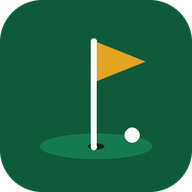
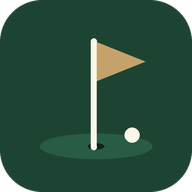
Classic light theme: ivory, racing green and brass with serif headings; fix map teardown error
Claude-Session: https://claude.ai/code/session_01XL54eaHXk2FcsiGUyhffHD

Changed region(s): [[0.1875, 0.6875, 0.8125, 0.8438], [0.5, 0.2188, 0.75, 0.4375]]

diff --git a/styles.css b/styles.css
@@ -1,24 +1,25 @@
 :root {
-  --bg: #f3f5f2;
-  --surface: #ffffff;
-  --surface-2: #eef2ee;
-  --text: #15201a;
-  --muted: #5d6b63;
-  --line: #d9e0db;
-  --brand: #0e5a3a;
-  --brand-2: #157a4f;
-  --brand-ink: #ffffff;
-  --accent: #e2a521;
-  --good: #1a8a52;
-  --bad: #c2412d;
-  --warn: #b7791f;
+  --bg: #f7f3ea;
+  --surface: #fffdf8;
+  --surface-2: #f2ede1;
+  --text: #1c2a22;
+  --muted: #6e7268;
+  --line: #e4dccb;
+  --brand: #1d4433;
+  --brand-2: #285c45;
+  --brand-ink: #fbf6e9;
+  --accent: #b38e55;
+  --good: #2c6b4b;
+  --bad: #a3442f;
+  --warn: #a8782f;
+  --serif: "Iowan Old Style", "Palatino Linotype", Palatino, "Book Antiqua", Georgia, serif;
   --eagle: #7b4fd6;
   --birdie: #d6453d;
   --par: #8a958f;
   --bogey: #2f6fc0;
   --double: #1d3f74;
   --radius: 14px;
-  --shadow: 0 1px 2px rgba(0,0,0,.06), 0 2px 10px rgba(0,0,0,.04);
+  --shadow: 0 1px 2px rgba(60,45,20,.06), 0 3px 12px rgba(60,45,20,.05);
   color-scheme: light;
 }
 @media (prefers-color-scheme: dark) {
@@ -205,7 +206,7 @@ textarea { min-height: 70px; resize: vertical; }
 .list-item { display: flex; align-items: center; justify-content: space-between; gap: 10px; padding: 12px 0; border-bottom: 1px solid var(--line); background: none; border-left: 0; border-right: 0; border-top: 0; width: 100%; text-align: left; }
 .list-item:last-child { border-bottom: 0; }
 .list-item .big { font-size: 22px; font-weight: 800; font-variant-numeric: tabular-nums; }
-.pill { font-size: 11px; font-weight: 700; padding: 2px 8px; border-radius: 999px; background: var(--accent); color: #241a00; }
+.pill { font-size: 11px; font-weight: 700; padding: 2px 8px; border-radius: 999px; background: var(--accent); color: #1d2a22; }
 
 .chips { display: flex; gap: 6px; flex-wrap: wrap; }
 .chips button { border: 1px solid var(--line); background: var(--surface); border-radius: 999px; padding: 6px 12px; font-size: 13px; font-weight: 650; }
@@ -217,30 +218,30 @@ textarea { min-height: 70px; resize: vertical; }
 details.help summary { font-weight: 700; cursor: pointer; padding: 4px 0; }
 details.help p, details.help li { font-size: 14px; color: var(--muted); }
 
-#toast { position: fixed; left: 50%; bottom: calc(86px + env(safe-area-inset-bottom)); transform: translateX(-50%) translateY(20px); opacity: 0; transition: .2s; background: #15201a; color: #fff; padding: 10px 16px; border-radius: 999px; font-size: 14px; font-weight: 600; z-index: 50; pointer-events: none; max-width: calc(100% - 32px); }
+#toast { position: fixed; left: 50%; bottom: calc(86px + env(safe-area-inset-bottom)); transform: translateX(-50%) translateY(20px); opacity: 0; transition: .2s; background: #1d4433; color: #fff; padding: 10px 16px; border-radius: 999px; font-size: 14px; font-weight: 600; z-index: 50; pointer-events: none; max-width: calc(100% - 32px); }
 #toast.show { opacity: 1; transform: translateX(-50%) translateY(0); }
 
 svg.chart { width: 100%; height: auto; display: block; }
 svg.chart text { fill: var(--muted); font-size: 10px; }
 
 /* GPS map */
-.gpsbtn { margin-bottom: 12px; background: #13355a; color: #fff; border-color: transparent; }
+.gpsbtn { margin-bottom: 12px; background: var(--surface); color: var(--brand); border: 1px solid var(--accent); font-family: var(--serif); font-weight: 600; }
 body.mapmode main { padding-top: 0; }
 #mapWrap { position: relative; isolation: isolate; z-index: 0; height: 58dvh; margin: 0 -16px 12px; background: #1b2a22; }
 #map { position: absolute; inset: 0; }
 #mapTop { position: absolute; top: 6px; left: 8px; right: 8px; z-index: 500; display: flex; flex-direction: column; gap: 6px; pointer-events: none; }
 #mapTop > * { pointer-events: auto; }
-.mt-d { align-self: center; display: flex; justify-content: center; gap: 4px; background: rgba(8,20,14,.82); color: #fff; border-radius: 14px; padding: 6px 10px; backdrop-filter: blur(4px); }
+.mt-d { align-self: center; display: flex; justify-content: center; gap: 4px; background: rgba(22,52,39,.88); color: #fff; border-radius: 14px; padding: 6px 10px; backdrop-filter: blur(4px); }
 .mt-d div { text-align: center; min-width: 64px; }
 .mt-d small { display: block; font-size: 11px; opacity: .75; font-weight: 600; }
 .mt-d b { font-size: 24px; font-variant-numeric: tabular-nums; }
-.mt-d .mid b { font-size: 32px; color: #ffd54a; line-height: 1.05; }
-.mt-msg { background: rgba(8,20,14,.82); color: #fff; border-radius: 12px; padding: 8px 12px; font-size: 14px; display: flex; align-items: center; gap: 8px; }
+.mt-d .mid b { font-size: 32px; color: #ecd29b; line-height: 1.05; }
+.mt-msg { background: rgba(22,52,39,.88); color: #fff; border-radius: 12px; padding: 8px 12px; font-size: 14px; display: flex; align-items: center; gap: 8px; }
 .mt-x { margin-left: auto; background: rgba(255,255,255,.2); border: 0; color: #fff; border-radius: 999px; width: 28px; height: 28px; }
-.mt-acc { align-self: flex-start; background: rgba(8,20,14,.7); color: #cfe; font-size: 11px; padding: 2px 8px; border-radius: 999px; }
+.mt-acc { align-self: flex-start; background: rgba(22,52,39,.75); color: #cfe; font-size: 11px; padding: 2px 8px; border-radius: 999px; }
 #mapCtl { position: absolute; right: 8px; bottom: 24px; z-index: 500; display: flex; flex-direction: column; gap: 8px; align-items: flex-end; }
-#mapCtl button { background: rgba(8,20,14,.85); color: #fff; border: 0; border-radius: 12px; padding: 10px 12px; font-weight: 700; font-size: 15px; min-width: 44px; }
-#mapCtl button.on { background: #e2a521; color: #241a00; }
+#mapCtl button { background: rgba(22,52,39,.9); color: #fff; border: 0; border-radius: 12px; padding: 10px 12px; font-weight: 700; font-size: 15px; min-width: 44px; }
+#mapCtl button.on { background: #c4a26a; color: #1d2a22; }
 .clubs { display: flex; gap: 6px; overflow-x: auto; padding-bottom: 4px; scrollbar-width: none; }
 .clubs::-webkit-scrollbar { display: none; }
 .clubs button { flex: 0 0 auto; min-width: 48px; height: 44px; border-radius: 10px; border: 1px solid var(--line); background: var(--surface-2); font-weight: 700; }
@@ -249,7 +250,7 @@ body.mapmode main { padding-top: 0; }
 .shot:last-child { border-bottom: 0; }
 .shot .n { width: 24px; height: 24px; border-radius: 50%; background: var(--surface-2); display: inline-flex; align-items: center; justify-content: center; font-size: 12px; font-weight: 800; }
 .shot .x { margin-left: auto; border: 0; background: none; color: var(--muted); font-size: 16px; padding: 4px 8px; }
-.leaflet-tooltip.shotnum { background: none; border: 0; box-shadow: none; color: #0e5a3a; font-weight: 800; font-size: 10px; padding: 0; }
+.leaflet-tooltip.shotnum { background: none; border: 0; box-shadow: none; color: #1d4433; font-weight: 800; font-size: 10px; padding: 0; }
 .leaflet-tooltip.shotnum::before { display: none; }
 .mt-sm { font-size: 12.5px; display: block; line-height: 1.4; padding: 6px 10px; align-self: flex-start; max-width: 100%; }
 .leaflet-tooltip.arclbl { background: none; border: 0; box-shadow: none; color: #fff; font-weight: 700; font-size: 10px; padding: 0; text-shadow: 0 0 3px #000; }
@@ -259,12 +260,12 @@ body.mapmode main { padding-top: 0; }
 .baggrid input { padding: 8px 10px; }
 
 /* home */
-.hero { background: linear-gradient(150deg, #0e5a3a, #13704a 60%, #0b4a30); color: #fff; border-radius: 18px; padding: 18px; margin-bottom: 12px; position: relative; overflow: hidden; }
+.hero { background: linear-gradient(150deg, #1d4433, #285c45 60%, #16372a); color: #fff; border-radius: 18px; padding: 18px; margin-bottom: 12px; position: relative; overflow: hidden; }
 .hero::after { content: ''; position: absolute; right: -40px; top: -40px; width: 160px; height: 160px; border-radius: 50%; background: rgba(255,255,255,.06); }
 .hero-k { font-size: 13px; opacity: .8; font-weight: 600; }
 .hero-t { font-size: 24px; font-weight: 800; margin: 2px 0 4px; }
 .hero-s { font-size: 15px; opacity: .9; margin-bottom: 4px; }
-.hero-btn { margin-top: 12px; width: 100%; background: #e2a521; color: #241a00; border: 0; font-size: 17px; position: relative; z-index: 1; }
+.hero-btn { margin-top: 12px; width: 100%; background: #c4a26a; color: #1d2a22; border: 0; font-size: 17px; position: relative; z-index: 1; }
 .hero-quick { display: flex; flex-wrap: wrap; gap: 6px; margin-top: 10px; position: relative; z-index: 1; }
 .hero-quick button { background: rgba(255,255,255,.14); color: #fff; border: 0; border-radius: 999px; padding: 6px 12px; font-size: 13px; font-weight: 650; }
 .home-tiles { margin-bottom: 12px; }
@@ -275,37 +276,37 @@ body.mapmode .top, body.mapmode .tabs { display: none; }
 body.mapmode { padding-bottom: 0; overflow: hidden; }
 body.mapmode main { padding: 0; max-width: none; }
 body.mapmode #mapWrap { position: fixed; inset: 0; height: auto; margin: 0; }
-.mp { position: absolute; z-index: 600; background: rgba(9,22,15,.86); color: #fff; backdrop-filter: blur(6px); -webkit-backdrop-filter: blur(6px); text-align: center; }
+.mp { position: absolute; z-index: 600; background: rgba(22,52,39,.9); color: #fff; backdrop-filter: blur(6px); -webkit-backdrop-filter: blur(6px); text-align: center; }
 #mapLeft { left: 0; top: calc(64px + env(safe-area-inset-top)); width: 70px; border-radius: 0 16px 16px 0; padding: 8px 0 0; overflow: hidden; }
 #mapRight { right: 0; top: calc(12px + env(safe-area-inset-top)); width: 92px; border-radius: 16px 0 0 16px; padding: 8px 4px 10px; }
 .mp-k { font-size: 11px; font-weight: 650; opacity: .7; letter-spacing: .02em; }
 .mp-v { font-size: 24px; font-weight: 800; line-height: 1.1; margin-bottom: 4px; }
-.mp-v .dots { display: block; font-size: 12px; color: #e2a521; line-height: .6; }
+.mp-v .dots { display: block; font-size: 12px; color: #c4a26a; line-height: .6; }
 .mp-s { font-size: 19px; font-weight: 750; line-height: 1.15; margin-bottom: 4px; font-variant-numeric: tabular-nums; }
 .mp-s small { font-size: 10px; opacity: .7; margin-left: 2px; }
-.mp-big { font-size: 40px; font-weight: 850; color: #ffd54a; line-height: 1.05; margin: 2px 0 4px; font-variant-numeric: tabular-nums; letter-spacing: -1px; }
+.mp-big { font-size: 40px; font-weight: 850; color: #ecd29b; line-height: 1.05; margin: 2px 0 4px; font-variant-numeric: tabular-nums; letter-spacing: -1px; }
 .mp hr { border: 0; border-top: 1px solid rgba(255,255,255,.15); margin: 6px 6px 8px; }
-.mp-club { margin: 4px auto 0; display: inline-block; background: #e2a521; color: #241a00; font-weight: 800; border-radius: 8px; padding: 3px 10px; font-size: 15px; }
+.mp-club { margin: 4px auto 0; display: inline-block; background: #c4a26a; color: #1d2a22; font-weight: 800; border-radius: 8px; padding: 3px 10px; font-size: 15px; }
 .warrow { display: inline-block; color: #8fd3ff; margin-right: 2px; transition: transform .3s; }
-.mp-btn { display: flex; flex-direction: column; align-items: center; width: 100%; border: 0; background: #13704a; color: #fff; padding: 10px 0 8px; font-size: 18px; border-top: 1px solid rgba(255,255,255,.12); }
+.mp-btn { display: flex; flex-direction: column; align-items: center; width: 100%; border: 0; background: #285c45; color: #fff; padding: 10px 0 8px; font-size: 18px; border-top: 1px solid rgba(255,255,255,.12); }
 .mp-btn span { font-size: 11px; font-weight: 700; margin-top: 2px; }
 #mapChips { position: absolute; z-index: 600; left: 12px; right: 12px; bottom: calc(84px + env(safe-area-inset-bottom)); display: flex; flex-direction: column; align-items: center; gap: 6px; pointer-events: none; }
-.mchip { pointer-events: auto; background: rgba(9,22,15,.88); color: #fff; border-radius: 12px; padding: 8px 12px; font-size: 14px; display: flex; align-items: center; gap: 8px; max-width: 100%; }
-.chipbtn { background: #e2a521; color: #241a00; border: 0; border-radius: 8px; padding: 5px 10px; font-weight: 750; }
+.mchip { pointer-events: auto; background: rgba(22,52,39,.9); color: #fff; border-radius: 12px; padding: 8px 12px; font-size: 14px; display: flex; align-items: center; gap: 8px; max-width: 100%; }
+.chipbtn { background: #c4a26a; color: #1d2a22; border: 0; border-radius: 8px; padding: 5px 10px; font-weight: 750; }
 .mt-x.dark { background: var(--surface-2); color: var(--text); }
 #mapFab { position: absolute; z-index: 600; right: 10px; bottom: calc(140px + env(safe-area-inset-bottom)); display: flex; flex-direction: column; gap: 8px; align-items: flex-end; }
-.fab { border: 0; border-radius: 14px; background: rgba(9,22,15,.88); color: #fff; font-size: 20px; width: 46px; height: 46px; }
-.fab.on { background: #e2a521; color: #241a00; }
-.fab.mark { width: auto; height: auto; padding: 10px 14px; background: #fff; color: #0e5a3a; display: flex; flex-direction: column; align-items: center; box-shadow: 0 4px 14px rgba(0,0,0,.35); }
+.fab { border: 0; border-radius: 14px; background: rgba(22,52,39,.9); color: #fff; font-size: 20px; width: 46px; height: 46px; }
+.fab.on { background: #c4a26a; color: #1d2a22; }
+.fab.mark { width: auto; height: auto; padding: 10px 14px; background: #fff; color: #1d4433; display: flex; flex-direction: column; align-items: center; box-shadow: 0 4px 14px rgba(0,0,0,.35); }
 .fab.mark b { font-size: 15px; }
 .fab.mark small { font-size: 11px; font-weight: 700; color: #5d6b63; }
 .fab:disabled { opacity: .5; }
 #mapBar { position: absolute; z-index: 650; left: 0; right: 0; bottom: 0; display: grid; grid-template-columns: 52px 52px 1fr 52px 52px; gap: 8px; align-items: center; padding: 10px 10px calc(10px + env(safe-area-inset-bottom)); background: linear-gradient(transparent, rgba(0,0,0,.55) 35%); }
-.mb-menu, .mb-arrow { height: 52px; border: 0; border-radius: 14px; background: rgba(9,22,15,.9); color: #fff; font-size: 24px; font-weight: 700; }
+.mb-menu, .mb-arrow { height: 52px; border: 0; border-radius: 14px; background: rgba(22,52,39,.92); color: #fff; font-size: 24px; font-weight: 700; }
 .mb-arrow { font-size: 32px; line-height: 1; }
 .mb-arrow:disabled { opacity: .35; }
-.mb-score { white-space: nowrap; height: 60px; border: 0; border-radius: 16px; background: #e2a521; color: #241a00; font-weight: 800; font-size: 17px; display: flex; align-items: center; justify-content: center; gap: 10px; box-shadow: 0 4px 16px rgba(0,0,0,.35); }
-.mb-tp { background: #241a00; color: #ffd54a; border-radius: 8px; padding: 2px 8px; font-size: 15px; }
+.mb-score { white-space: nowrap; height: 60px; border: 0; border-radius: 16px; background: #c4a26a; color: #1d2a22; font-weight: 800; font-size: 17px; display: flex; align-items: center; justify-content: center; gap: 10px; box-shadow: 0 4px 16px rgba(0,0,0,.35); }
+.mb-tp { background: #1d2a22; color: #ecd29b; border-radius: 8px; padding: 2px 8px; font-size: 15px; }
 #mapSheet { position: absolute; inset: 0; z-index: 700; pointer-events: none; }
 #mapSheet.open { pointer-events: auto; }
 .sheet-bg { position: absolute; inset: 0; background: rgba(0,0,0,.35); }
@@ -377,3 +378,53 @@ body { padding-bottom: calc(100px + env(safe-area-inset-bottom)); }
 .ins-foot button:disabled { opacity: .3; }
 .ins-foot b { display: block; font-size: 17px; }
 .ins-foot span { font-size: 13px; color: var(--muted); }
+
+
+/* ---------- classic clubhouse theme ---------- */
+body { font-feature-settings: "lnum" 1; }
+.top { background: var(--brand); border-bottom: 2px solid var(--accent); }
+.top h1, .card h2, .hn, .hero-t, .ins-title, .h-hcp span, .h-last b, .h-duo button span, .h-start, .sheet-h b { font-family: var(--serif); letter-spacing: .2px; }
+.top h1 { font-size: 21px; font-weight: 600; color: #fbf6e9; }
+.top .tbtn { background: transparent; border: 1px solid rgba(196,162,106,.7); color: #ecd29b; }
+.card { border-color: var(--line); }
+.card h2 { font-size: 18px; font-weight: 600; color: var(--brand); }
+.card h3 { color: var(--accent); }
+.tile .v, .big, .h-hcp b, .h-trio b, .h-quad b, .mp-big, .mp-v, .stepper .val b, .strip b, .ins-row b, .h-last .h-score, .list-item .big { font-family: var(--serif); font-weight: 600; }
+.tile { background: var(--surface-2); border: 1px solid var(--line); }
+.btn.primary { background: var(--brand); color: #fbf6e9; }
+.seg button.on, .chips button.on, .clubs button.on { background: var(--brand); border-color: var(--brand); color: #fbf6e9; }
+.hchip.cur { outline-color: var(--accent); }
+.tab.on { color: var(--brand); background: var(--surface-2); box-shadow: inset 0 0 0 1px var(--line); }
+.tabs { border-color: var(--line); }
+
+/* home */
+.h-search { background: var(--surface); }
+.h-hcp { background: var(--brand); color: #fbf6e9; border: 1px solid var(--brand); box-shadow: inset 0 0 0 4px var(--brand), inset 0 0 0 5px rgba(196,162,106,.55); }
+.h-hcp b { color: #ecd29b; font-size: 36px; }
+.h-golfer { fill: #ecd29b; opacity: .22; }
+.h-trio div { background: var(--surface); border: 1px solid var(--line); }
+.h-trio b { color: var(--brand); font-size: 26px; }
+.h-quad div { background: var(--surface); border: 1px solid var(--line); }
+.h-last { background: var(--surface); }
+.h-last.live { background: #f6ecd6; border-color: var(--accent); }
+.h-duo button { background: var(--surface); border-color: var(--line); color: var(--brand); }
+.h-duo button span { font-size: 19px; color: var(--text); }
+.h-section { color: var(--accent); text-transform: uppercase; letter-spacing: .08em; font-size: 12px; }
+.h-start { background: var(--brand); color: #fbf6e9; border: 1px solid var(--brand); box-shadow: inset 0 0 0 3px var(--brand), inset 0 0 0 4px rgba(196,162,106,.7); font-weight: 600; letter-spacing: .3px; }
+.h-start svg { color: #ecd29b; }
+.hero { background: linear-gradient(150deg, #1d4433, #285c45 60%, #16372a); }
+
+/* map overlays */
+.mp { border: 1px solid rgba(196,162,106,.35); }
+#mapLeft { border-left: 0; }
+#mapRight { border-right: 0; }
+.mp-btn { background: #285c45; }
+.mp-club { background: #c4a26a; color: #16372a; }
+.mb-score { background: #f7f0de; color: #1d4433; border: 1px solid #c4a26a; font-family: var(--serif); font-weight: 600; font-size: 18px; }
+.mb-tp { background: #1d4433; color: #ecd29b; font-family: var(--serif); }
+.fab.mark { background: #fffdf8; color: #1d4433; border: 1px solid #c4a26a; }
+.fab.on, .chipbtn { background: #c4a26a; color: #16372a; }
+.ins-title { color: var(--brand); }
+.ins-foot button { border-color: var(--brand); color: var(--brand); }
+.bb i { background: linear-gradient(90deg, var(--brand), var(--brand-2)); }
+.hero-btn { background: #c4a26a; color: #16372a; }

diff --git a/map.js b/map.js
@@ -206,7 +206,7 @@ function initMap() {
 function stopMap() {
   if (M.watch != null) { navigator.geolocation.clearWatch(M.watch); M.watch = null; }
   if (M.wake) { M.wake.release().catch(() => {}); M.wake = null; }
-  if (M.map) { M.map.remove(); M.map = null; M.layer = null; }
+  if (M.map) { try { M.map.stop(); M.map.off(); M.map.remove(); } catch (e) {} M.map = null; M.layer = null; }
   M.target = null; M.setFlag = false; M.sheet = null;
 }
 function startGps() {
@@ -233,9 +233,9 @@ function fitHole() {
   const pts = [];
   if (g) { pts.push(g.c); if (g.tee) pts.push(g.tee); }
   if (M.me && (!g || dist(M.me, g.c) < 700)) pts.push(M.me);
-  if (pts.length > 1) M.map.fitBounds(pts, { padding: [70, 40], maxZoom: 19 });
-  else if (pts.length === 1) M.map.setView(pts[0], g ? 18 : 17);
-  else if (courseGeo().center) M.map.setView(courseGeo().center, 16);
+  if (pts.length > 1) M.map.fitBounds(pts, { padding: [70, 40], maxZoom: 19, animate: false });
+  else if (pts.length === 1) M.map.setView(pts[0], g ? 18 : 17, { animate: false });
+  else if (courseGeo().center) M.map.setView(courseGeo().center, 16, { animate: false });
 }
 
 /* ---------- drawing ---------- */
@@ -371,7 +371,7 @@ async function autoFind(force) {
   const center = (M.me && (!geo.center || dist(M.me, geo.center) < 3000)) ? M.me : await geocodeCourse();
   if (!center) { if (force) toast('Could not find the course. Set greens by hand.'); return; }
   M.finding = true;
-  if (M.map && !Object.keys(geo.holes).length) M.map.setView(center, 16);
+  if (M.map && !Object.keys(geo.holes).length) M.map.setView(center, 16, { animate: false });
   try {
     const q = `[out:json][timeout:25];(way["golf"="green"](around:2500,${center[0]},${center[1]});way["golf"="hole"](around:2500,${center[0]},${center[1]});way["golf"="bunker"](around:2500,${center[0]},${center[1]});way["natural"="water"](around:2500,${center[0]},${center[1]});way["golf"~"water_hazard|lateral_water_hazard"](around:2500,${center[0]},${center[1]}););out geom;`;
     const res = await fetch('https://overpass-api.de/api/interpreter', { method: 'POST', body: 'data=' + encodeURIComponent(q), headers: { 'Content-Type': 'application/x-www-form-urlencoded' } });

diff --git a/app.js b/app.js
@@ -3,7 +3,7 @@
    All data lives in this browser's localStorage. Use More → Backup to export. */
 
 const KEYS = { rounds: 'gs.rounds', courses: 'gs.courses', settings: 'gs.settings', active: 'gs.active' };
-const DEFAULT_SETTINGS = { hcp: '', zone: 100, unit: 'm', target: 15, szGoal: 70, d3Goal: 70, theme: 'auto' };
+const DEFAULT_SETTINGS = { hcp: '', zone: 100, unit: 'm', target: 15, szGoal: 70, d3Goal: 70, theme: 'light' };
 const STD_PARS = [4, 4, 3, 4, 5, 4, 3, 4, 5, 4, 4, 3, 4, 5, 4, 3, 4, 5];
 /* Built-in course cards. Par and stroke index (men's) from public scorecards; check against the club card. */
 const BUILTIN_COURSES = [
@@ -42,6 +42,7 @@ const S = {
   detailId: null,
   draft: null,
 };
+if (!S.settings.themeV2) { S.settings.theme = 'light'; S.settings.themeV2 = true; }
 function persist() {
   save(KEYS.rounds, S.rounds); save(KEYS.courses, S.courses);
   save(KEYS.settings, S.settings); save(KEYS.active, S.activeId);
@@ -698,7 +699,7 @@ function viewSettings() {
     <details class="help"><summary>Install on your phone</summary>
       <p><b>iPhone (Safari):</b> tap Share → <i>Add to Home Screen</i>.<br><b>Android (Chrome):</b> tap ⋮ → <i>Install app</i> / <i>Add to Home screen</i>.<br>After the first load it works offline, even with no signal on the course.</p>
     </details>
-    <div class="sub" style="margin-top:8px">Version 1.4</div>
+    <div class="sub" style="margin-top:8px">Version 1.5</div>
   </div>`;
 }
 

diff --git a/sw.js b/sw.js
@@ -1,5 +1,5 @@
 // Offline cache for the app shell. Bump CACHE when files change so phones pick up the update.
-const CACHE = 'golf-stats-v7';
+const CACHE = 'golf-stats-v8';
 const FILES = ['./', 'index.html', 'styles.css', 'app.js', 'map.js', 'features.js', 'vendor/leaflet/leaflet.js', 'vendor/leaflet/leaflet.css', 'manifest.webmanifest',
   'icons/icon.svg', 'icons/icon-192.png', 'icons/icon-512.png', 'icons/apple-touch-icon.png'];
 

diff --git a/index.html b/index.html
@@ -3,7 +3,7 @@
 <head>
   <meta charset="utf-8">
   <meta name="viewport" content="width=device-width, initial-scale=1, viewport-fit=cover">
-  <meta name="theme-color" content="#0e5a3a">
+  <meta name="theme-color" content="#1d4433">
   <meta name="mobile-web-app-capable" content="yes">
   <meta name="apple-mobile-web-app-capable" content="yes">
   <meta name="apple-mobile-web-app-status-bar-style" content="black-translucent">
